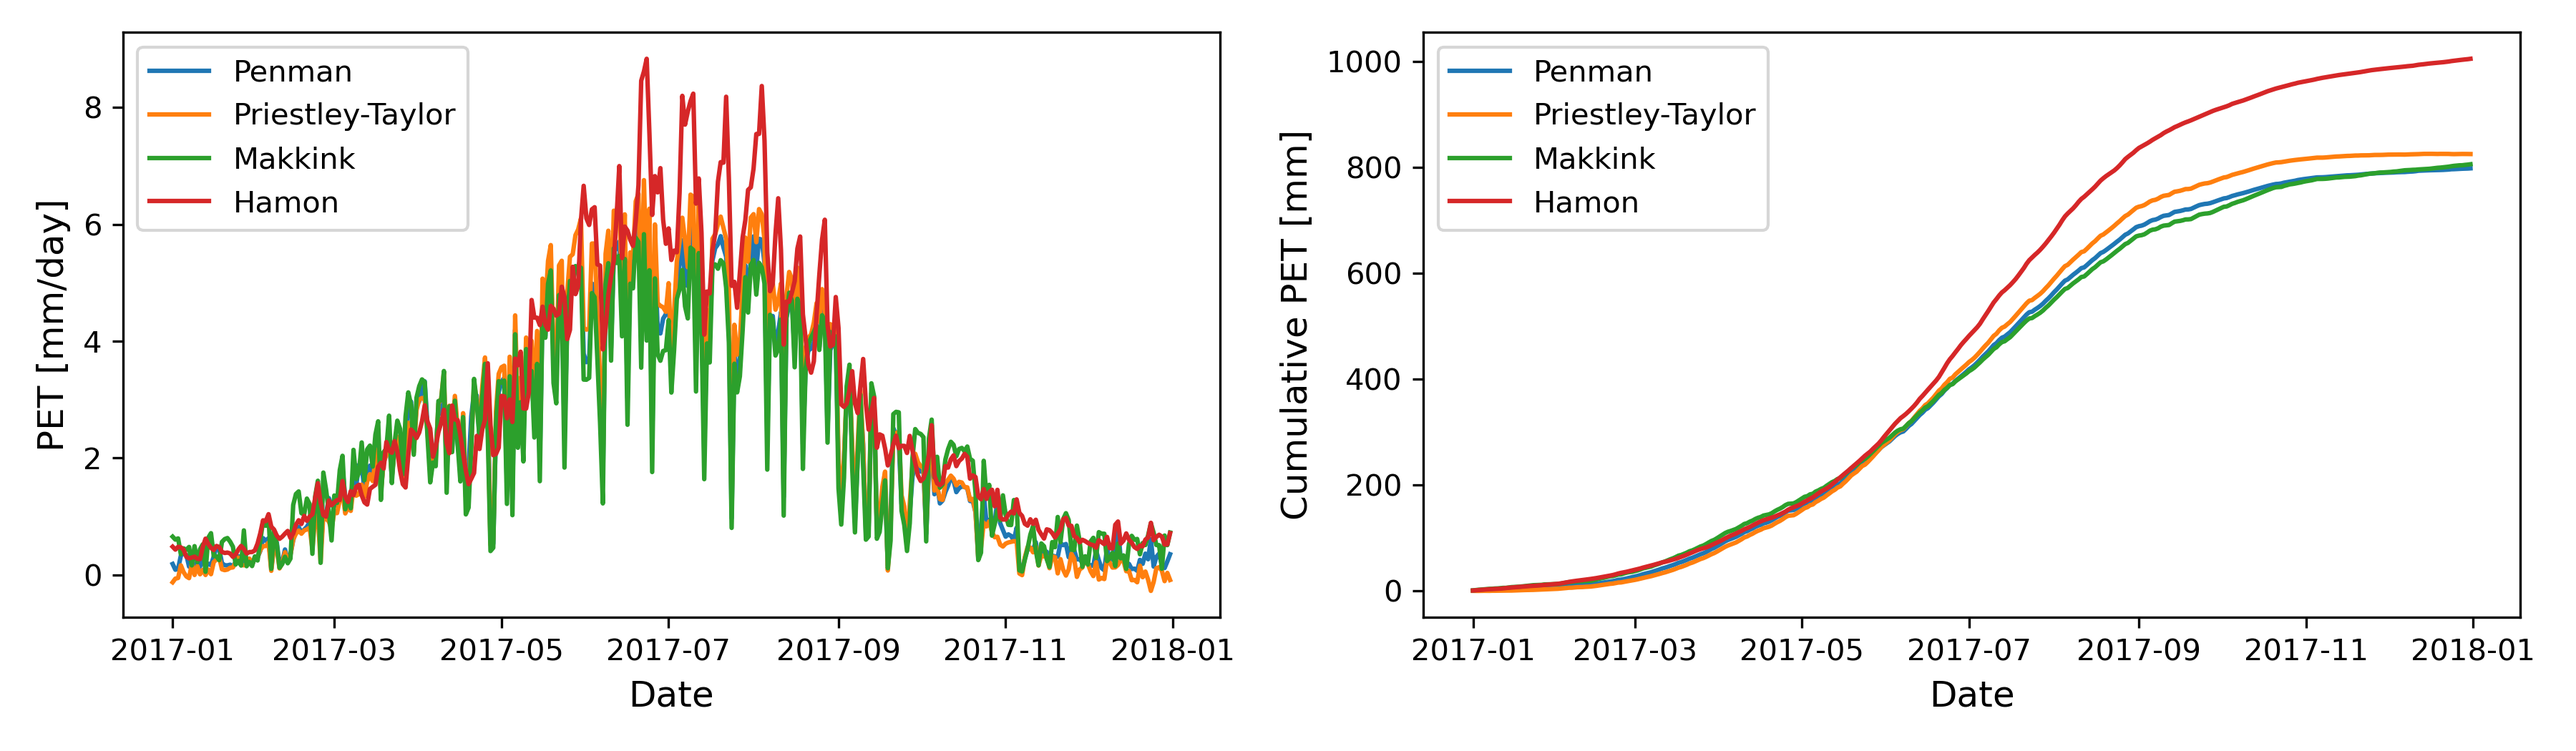
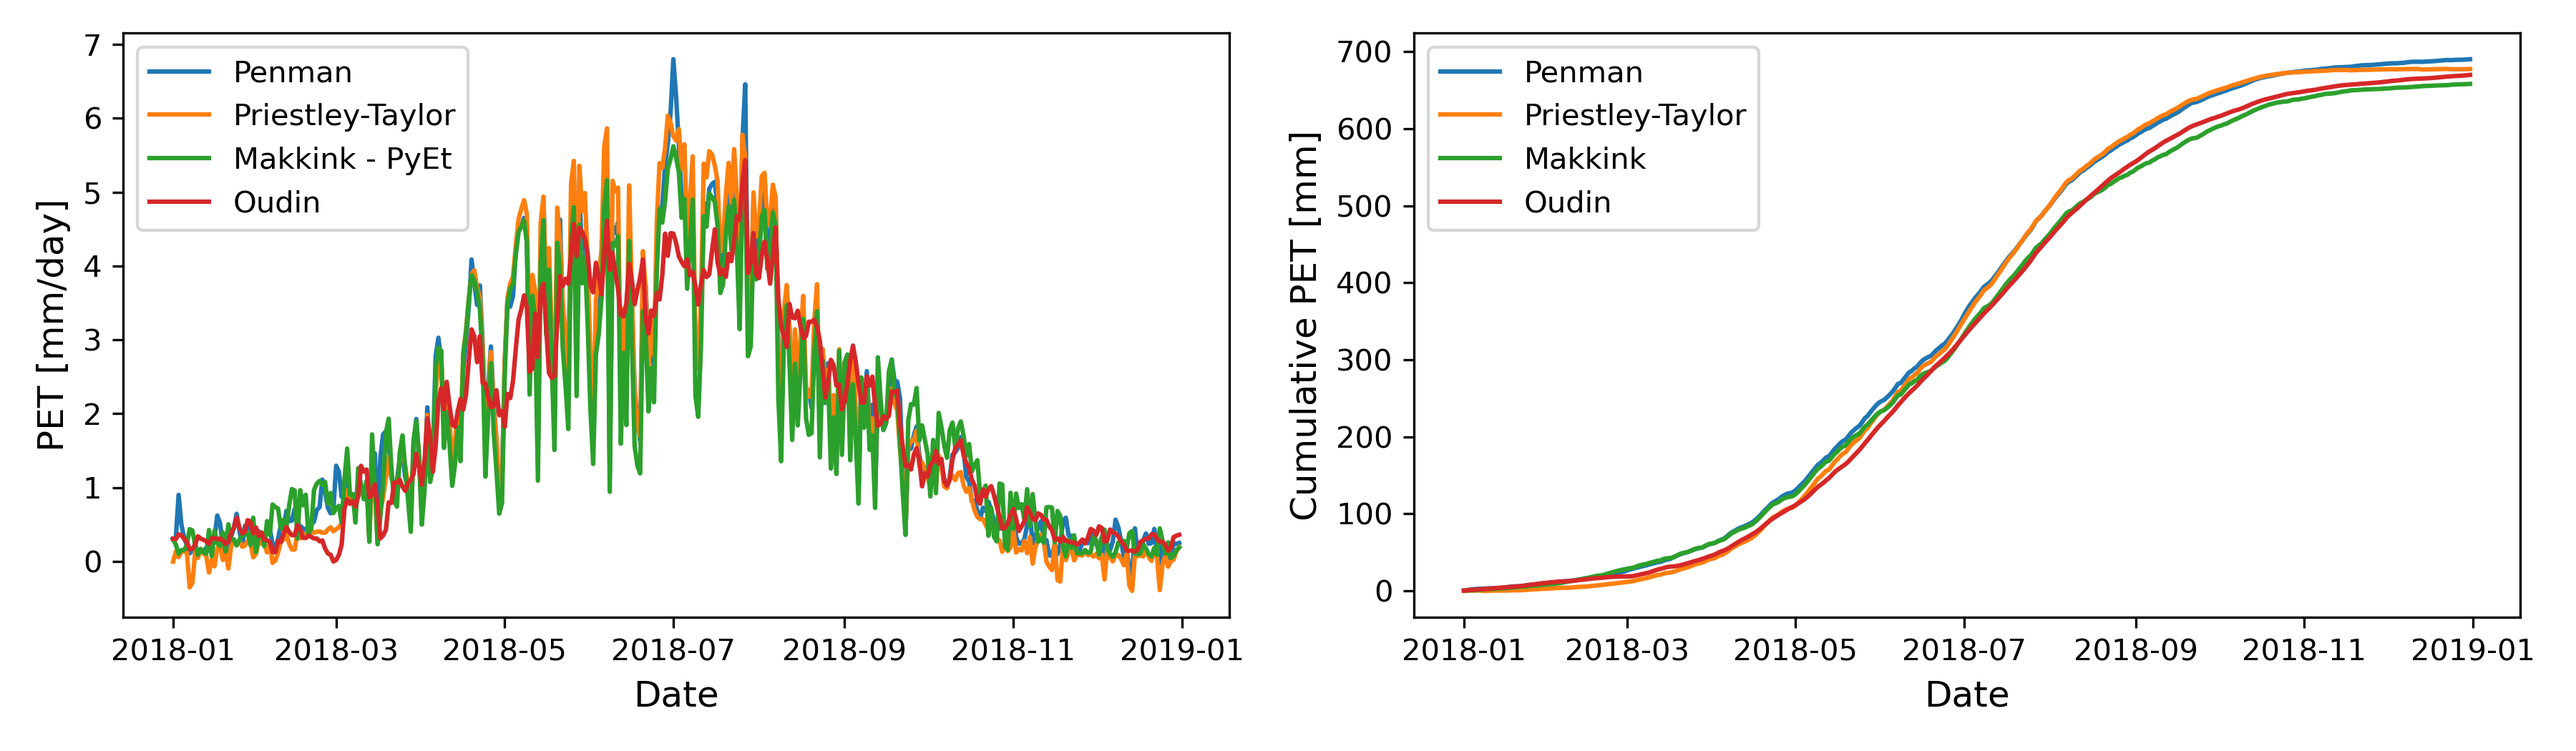
Edits to paper.md

diff --git a/paper.md b/paper.md
@@ -22,43 +22,75 @@ bibliography: paper.bib
 
 # Summary
 
-The evaporation (ET) of water from land surfaces to the atmosphere is a major component of the water 
-cycle and accurate estimates of the flux are essential to the water and agricultural sector. As 
-direct measurement of ET is difficult, the evaporation flux is often estimated from available 
-meteorological data using empirical formulas. There exist a variety of such formulas, where most 
-tend to estimate the potential evaporation (PET), which is the maximum amount of water that would 
-be evaporated if enough water were available. Consistently implementing these methods is difficult 
-due to the significant diversity in the level of input data, process representation, assumptions 
-and data requirements. The goal of `PyEt` is to provide a Python package that includes a wide range 
-of methods for the estimation of PET, is fully documented and easy to use. Currently, `PyEt` includes 
-eighteen different methods to estimate daily PET and various methods to estimate surface and aerodynamic 
-resistance (see Table below). The package allows users to compute and compare potential evaporation 
-estimates using different approaches with minimum effort. The structure of the package allows the 
-implementation of the methods in other hydrological models or sensitivity analysis.
+The evaporation (ET) of water from land surfaces to the atmosphere is a major component of the water cycle and 
+accurate estimates of the flux are essential to the water and agricultural sector. As direct measurement of ET 
+is difficult, the evaporation flux is commonly estimated from standard meteorological data using empirical 
+formulas. There is a wide variety of such formulas, ranging from complex physically based methods
+(e.g. Penamn-Monteith),to less weather-data demanding methods (e.g. Oudin, Hamon, ...). Most of the formulas 
+tend to estimate the potential evaporation (PET), which is the maximum amount of water that will be evaporated 
+if enough water were available. Water resources experts many times rely on these formulas to get a first 
+impression of the field water balance, preferably using a simple and fast procedure with multiple options of 
+data input. Consistently implementing these methods is difficult due to the significant diversity in the level 
+of input data, process representation, assumptions and data requirements. Therefore, the goal of `PyEt` is to 
+provide a Python package that includes a wide range of methods for the estimation of PET, is fully documented 
+and easy to use. The structure of the package allows easy coupling to hydrological models and usage in complex 
+sensitivity analysis. Currently, `PyEt` includes eighteen different methods to estimate daily PET and various 
+methods to estimate surface and aerodynamic resistance and other missing meteorological data(see Table below). 
 
 # Statement of Need
 
-In the Python community, there are already several Python packages that compute evaporation but only
-allow the user to choose between one or a maximum of three evaporation methods, e.g. `evaporation` 
-(https://github.com/openmeteo/evaporation),`PyETo` (https://github.com/woodcrafty/PyETo), `RefET` 
-(https://github.com/WSWUP/RefET). A package that includes a number of evaporation methods is already
-available in the R community by @Danlu2016r. `PyEt` therefore aims to provide similar contributions
-to the Python community. `PyEt` also includes simple evaporation methods that require fewer input 
-data than the commonly used Penman-Monteith method (see table below). Thus, `PyEt` can be of great 
-importance in regions with sparsely distributed networks of measurement stations or climate change 
-studies, where observations/predictions of wind velocity and humidity are often not available. The 
-importance of simple evaporation models and their efficiency in rainfall-runoff models is thoroughly 
-discussed in @OUDIN2005290. In this paper, the term `evaporation` refers to the total evaporation from land, comprising of 
-transpiration (evaporation of water from inside the leaves), evaporation from bare soils and interception 
-loss (evaporation of intercepted precipitation) [@miralles2020].
+In the Python community, there already exist many tools to compute potential evaporation. For example, `PyETo` 
+package includes the FAO-56 Penamn-Monteith, the Hargreaves and the Thornthwaite method 
+(https://github.com/woodcrafty/PyETo), the `evaporation` package the FAO-56 Penamn-Monteith method 
+(https://github.com/openmeteo/evaporation) and `RefET` the ASCE-EWRI Penamn-Monteith method 
+(https://github.com/WSWUP/RefET). All these packages, however, lack in consideration of alternative PET 
+formulations. A popular package that also includes alternative PET formulations is already developed in the R 
+community by @Danlu2016r.
 
-Table 1: PET, surface and aerodynamic resistance methods included in `PyEt`. T, Temperature; U, Wind Speed; 
+Thus, motivation behind `PyEt` is to provide a simple to use package, that incorporates multiple evaporation 
+formulations, to the Python community. Allowing multiple levels of input data, `PyEt` can be of great importance
+in regions with sparsely distributed networks of measurement stations or climate change studies, where 
+observations or predictions of standard meteorological data (e.g. wind, relative humidity) often not available.
+
+# Estimation of Evaporation 
+
+Evaporation(ET) is the process where a substance is converted from its liquid into its vapor phase. In this paper,
+the term evaporation is used to refer to the total evaporation from a land surface, comprising of transpiration 
+(evaporation of water from inside the leaves), evaporation from bare soils and interception (evaporation of 
+intercepted precipitation)[@miralles2020]. Representing one of the largest water fluxes from cathchments, the 
+magnitude of the flux is crucial for water related application and studies at both regional and plot scale. 
+
+Evaporation flux is influenced from meteorological conditions, but also the availability of water, which 
+determines if actual evaporation will occur at its potential rate (PET). Observations of actual evaporation are 
+limited to point measurements and require expensive instrumentation, which is often not available for most 
+practical applications. A common method of obtaining actual evaporation rates is thus by using hydrological models, 
+which compute actual evaporation by reducing the PET due to water limitations. These models therefore relly on 
+accurate input of PET, which is often calibrated to match regional and plot characteristics [@OUDIN2005290].
+ 
+The standard procedure to determine the potential evaporation is using the Penamn-Monteith formulation 
+([allen1998crop, @walter2000asce)]), which requires standard meteorological measurements of air temperature, 
+relative humidity, wind speed and radiation. Application of the Penamn-Monteith is therefore limited, as all of the
+data is often not available. Alternative methods that require less meteorological input are therefore in favor in 
+regions where all standard meteorological variables are not measured or climate scenarios, that only offer 
+projections of radiation and temperature. The study of @OUDIN2005290 gives a great introduction on the importance 
+of alternative methods to estimate PET and also reports that in some regions the alternative PET methods outperform 
+the Penman-Monteith method.
+
+# Functionality
+
+At this stage, `PyEt` offers the estimation of daily PET using 20 different PET methods (see table below). 
+The package also provides numerous functions to estimate missing meteorological data (e.g. solar and net radiation).
+The methods are currently only implemented for 1D data (time series data). Future work will therefore centre on  
+expanding functionality on 2D and 3D data as well (Numpy array, XArray, and NetCDF). The implemented methods are 
+tested against other open source data to ensure proper functioning of the methods [@allen1998crop].
+
+ Table 1: PET, surface and aerodynamic resistance methods included in `PyEt`. T, Temperature; U, Wind Speed; 
 D, Radiation; RH, Relative Humidity; $h_{crop}$, crop height; LAI, Leaf area index; $[CO_2]$ - atmospheric
 $CO_2$ concentration. Adapted from @OUDIN2005290.
 
-| Method            | Data needed     | PyEt Method       | Reference                     |
-|-------------------|-----------------|-------------------|-------------------------------|
-| Penman            | RH, T, U, D     |`penman`           |@penman1948natural             |
+| Method            | Data needed     | PyEt Method       | Reference                   |
+|-------------------|-----------------|-------------------|-----------------------------|
+| Penman            | RH, T, U, D     |`penman`           |@penman1948natural           |
 | Penman-Monteith   | RH, T, U, D     |`pm`               |@monteith1965evaporation     |
 |                   |                 |                   |@schymanski_2017             |
 | FAO-56            | RH, T, U, D     |`pm_fao56`         |@allen1998crop               |
@@ -88,11 +120,12 @@ $CO_2$ concentration. Adapted from @OUDIN2005290.
 # Example application
 
 This example shows how `PyEt` can be used to compute potential evaporation using different evaporation 
-methods. The potential evaporation is estimated for the city of Maribor (Slovenia), using online available 
-data from the Slovenian Environmental Agency (ARSO). The potential evaporation is computed using 
-four different methods (Penman, Priestley-Taylor, Makking, Hammon) and plotted for comparison.
+methods. The potential evaporation is estimated for the city of De Bilt, using online available data 
+provided by the The Royal Netherlands Meteorological Institute (KNMI). The potential evaporation is computed using 
+four different methods (Penman, Priestley-Taylor, Makking, Oudin) and plotted for comparison.
 
 ``` python
+# Import needed packages
 import pandas as pd
 import pyet
 
@@ -101,12 +134,13 @@ meteo = pd.read_csv("data/meteo_maribor_2017.csv", parse_dates=True,
                     index_col="Date")
 tmax, tmin, rh, wind, rs = [meteo[col] for col in meteo.columns]
 
+# Compute Evaporation
 et_penman = pyet.pm(wind, rs=rs, elevation=279, lat=0.813, tmax=tmax, 
 					tmin=tmin, rh=rh)
 et_pt = pyet.priestley_taylor(wind, rs=rs, elevation=279, lat=0.813, 
 							  tmax=tmax, tmin=tmin, rh=rh)
 et_mak = pyet.makkink(rs, tmax=tmax, tmin=tmin, elevation=279)
-et_hamon = pyet.hamon(tmean.index, tmean, 0.813)
+et_hamon = pyet.hamon(tmean.index, tmean, lat=0.813)
 ```
 In the code above `R_s` is the incoming solar radiation [MJ m-2 d-1], `elevation` the site elevation [m], 
 `lat` the the site latitude [rad], `tmax` and `tmin` the maximum and minimum temperature [°C] and 
@@ -115,10 +149,11 @@ In the code above `R_s` is the incoming solar radiation [MJ m-2 d-1], `elevation
 ![Daily potential evaporation for Maribor (Slovenia) estimated according to [@monteith1965evaporation], 
 [@priestley1972assessment], [@makkink1957testing] and [@hamon1963estimating].](Figure1.png)
 
+
 # Concluding remarks
 
 This paper presents `PyEt`, a Python package to estimate daily potential evaporation from available 
-meteorological data. Using `PyEt`, users can estimate PET using 18 different methods with only a few lines
+meteorological data. Using `PyEt`, users can estimate PET using 20 different methods with only a few lines
 of Python-code. At this stage (PyEt v1.0), the methods are implemented for 1D data (e.g. time series data).
 Further developments will focus on enabling 2D and 3D data input (Numpy Arrays, Array, and NetCDF files).
 The authors believe that `PyEt` is a valuable contribution to the hydrology, meteorology and agricultural 
